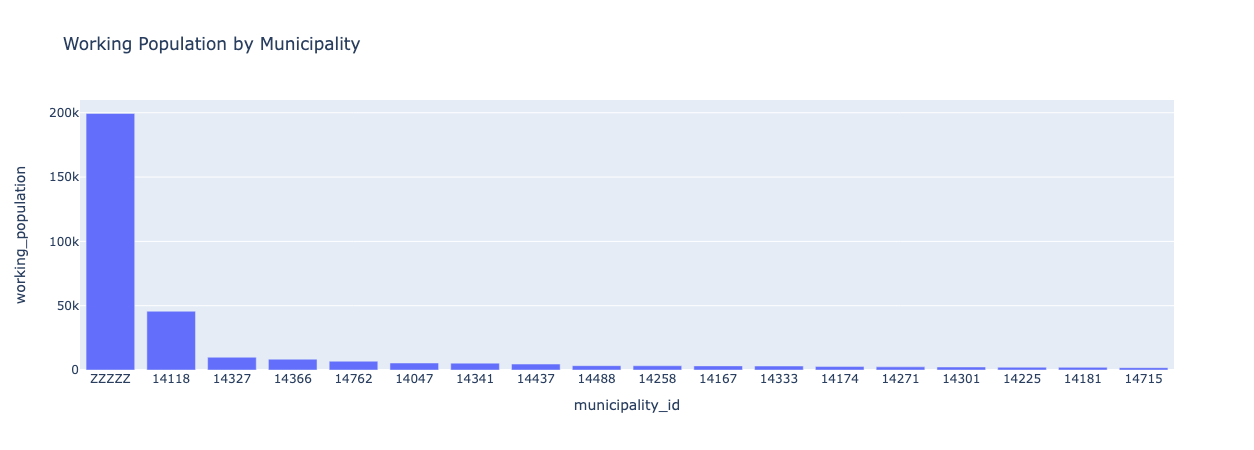
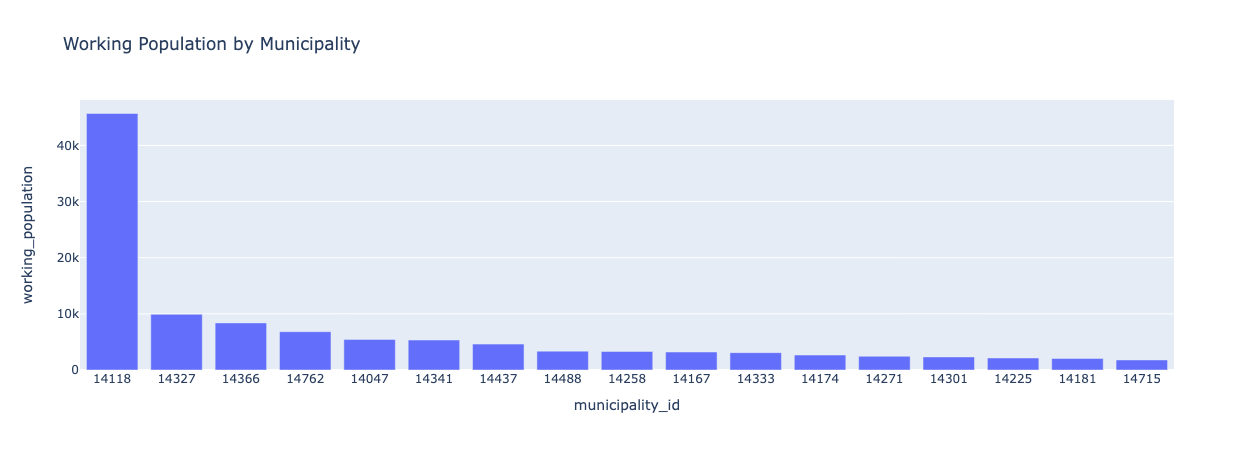
Built site for gh-pages

diff --git a/index.html b/index.html
@@ -6,7 +6,7 @@
 
 <meta name="viewport" content="width=device-width, initial-scale=1.0, user-scalable=yes">
 
-<meta name="dcterms.date" content="2025-01-10">
+<meta name="dcterms.date" content="2025-01-12">
 
 <title>Agent-based Transport Simulation in Calvados, France</title>
 <style>
@@ -93,10 +93,10 @@ window.Quarto = {
 <meta name="citation_author" content="Nikethan Nimalakumaran">
 <meta name="citation_author" content="Cong Son Duong">
 <meta name="citation_author" content="Mohammed Adel Djelloul Abbou">
-<meta name="citation_publication_date" content="2025-01-10">
-<meta name="citation_cover_date" content="2025-01-10">
+<meta name="citation_publication_date" content="2025-01-12">
+<meta name="citation_cover_date" content="2025-01-12">
 <meta name="citation_year" content="2025">
-<meta name="citation_online_date" content="2025-01-10">
+<meta name="citation_online_date" content="2025-01-12">
 <meta name="citation_language" content="en">
 <meta name="citation_reference" content="citation_title=OpenStreetMap;,citation_author=undefined Geofabrik;,citation_publication_date=2024;,citation_cover_date=2024;,citation_year=2024;,citation_fulltext_html_url=http://download.geofabrik.de/europe/france.html;">
 <meta name="citation_reference" content="citation_title=IRIS;,citation_author=undefined IGN;,citation_publication_date=2021;,citation_cover_date=2021;,citation_year=2021;,citation_fulltext_html_url=https://geoservices.ign.fr/contoursiris;">
@@ -161,7 +161,7 @@ window.Quarto = {
                 <div>
             <div class="quarto-title-meta-heading">Published</div>
             <div class="quarto-title-meta-contents">
-              <p class="date">January 10, 2025</p>
+              <p class="date">January 12, 2025</p>
             </div>
           </div>
           
@@ -319,7 +319,6 @@ Figure&nbsp;8: Working Population Distribution
 </figure>
 </div>
 <p><a href="#fig-working-population" class="quarto-xref">Figure&nbsp;8</a> shows the working population distribution by municipality.</p>
-<p>XXX TODO: Remove ZZZZZ XXX</p>
 <div id="fig-employees-by-mun" class="quarto-float quarto-figure quarto-figure-center anchored">
 <figure class="quarto-float quarto-float-fig figure">
 <div aria-describedby="fig-employees-by-mun-caption-0ceaefa1-69ba-4598-a22c-09a6ac19f8ca">
@@ -472,7 +471,28 @@ Figure&nbsp;19: Route Network
 </figure>
 </div>
 <p><a href="#fig-route-network" class="quarto-xref">Figure&nbsp;19</a> shows the extracted OpenStreetMap route network for the Calvados department.</p>
-<p>XXX TODO: PERFORM ROUTING XXX</p>
+<div id="fig-top-routes" class="quarto-float quarto-figure quarto-figure-center anchored">
+<figure class="quarto-float quarto-float-fig figure">
+<div aria-describedby="fig-top-routes-caption-0ceaefa1-69ba-4598-a22c-09a6ac19f8ca">
+<a href="resources/3_2_top_routes.png" class="lightbox" data-gallery="quarto-lightbox-gallery-20" title="Figure&nbsp;20: Top 5 Generated Routes"><img src="resources/3_2_top_routes.png" class="img-fluid figure-img"></a>
+</div>
+<figcaption class="quarto-float-caption-bottom quarto-float-caption quarto-float-fig" id="fig-top-routes-caption-0ceaefa1-69ba-4598-a22c-09a6ac19f8ca">
+Figure&nbsp;20: Top 5 Generated Routes
+</figcaption>
+</figure>
+</div>
+<p><a href="#fig-top-routes" class="quarto-xref">Figure&nbsp;20</a> shows the top 5 generated routes for the trip pairs. As “u” and “v” are the edge IDs and “count” is the number of trips that flow through these edges.</p>
+<div id="fig-generated-routes" class="quarto-float quarto-figure quarto-figure-center anchored">
+<figure class="quarto-float quarto-float-fig figure">
+<div aria-describedby="fig-generated-routes-caption-0ceaefa1-69ba-4598-a22c-09a6ac19f8ca">
+<a href="resources/3_2_generated_routes.png" class="lightbox" data-gallery="quarto-lightbox-gallery-21" title="Figure&nbsp;21: Generated Routes"><img src="resources/3_2_generated_routes.png" class="img-fluid figure-img"></a>
+</div>
+<figcaption class="quarto-float-caption-bottom quarto-float-caption quarto-float-fig" id="fig-generated-routes-caption-0ceaefa1-69ba-4598-a22c-09a6ac19f8ca">
+Figure&nbsp;21: Generated Routes
+</figcaption>
+</figure>
+</div>
+<p><a href="#fig-generated-routes" class="quarto-xref">Figure&nbsp;21</a> shows the generated routes for the trip pairs on the map.</p>
 </section>
 </section>
 <section id="references" class="level1" data-number="4">
